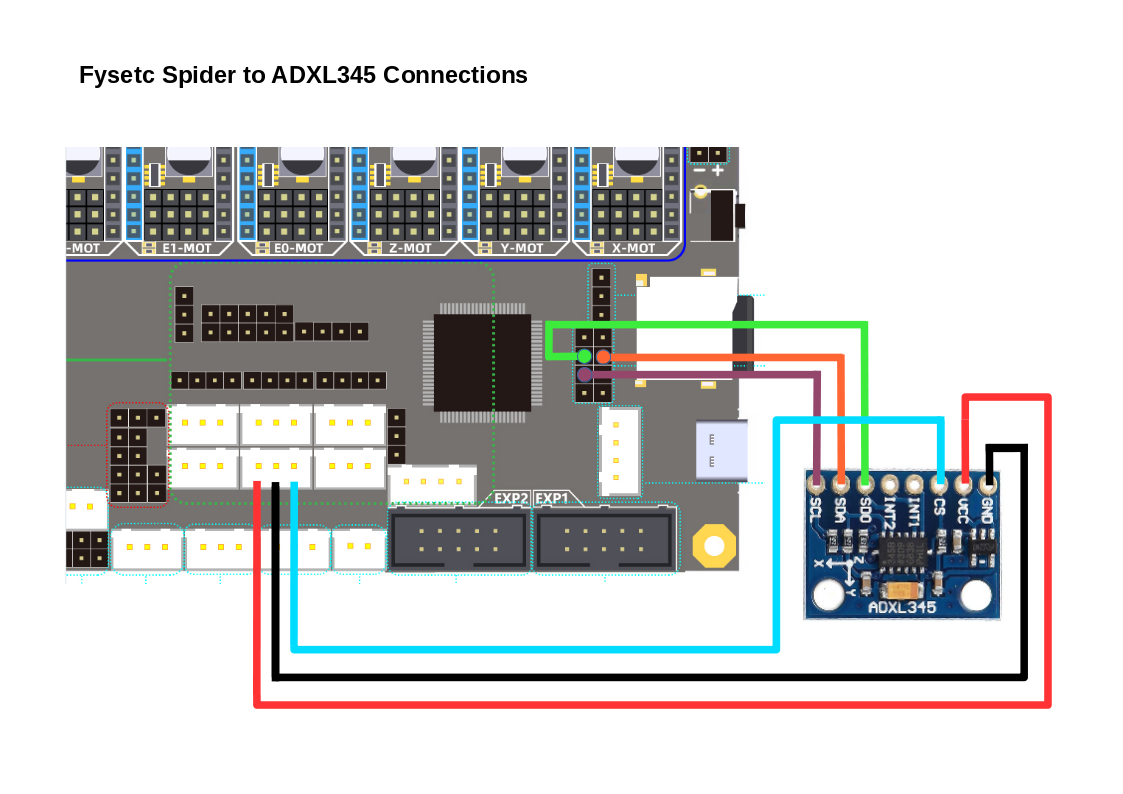
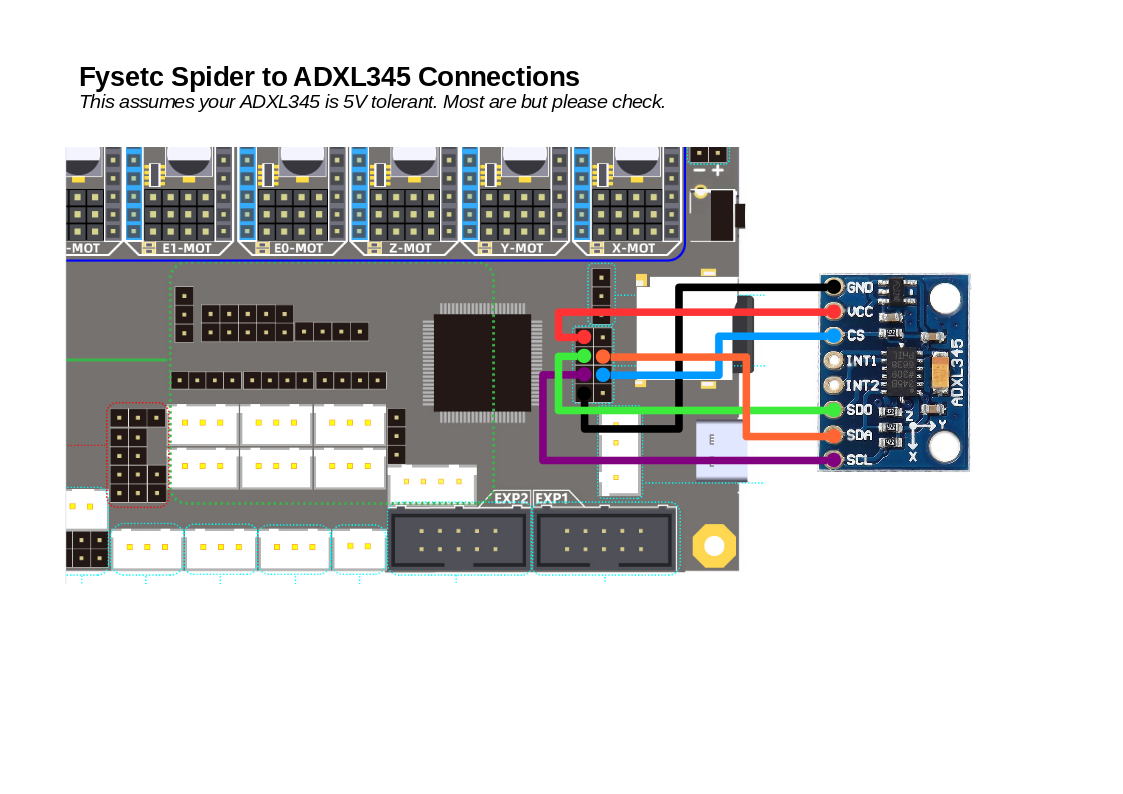
Rewrite for ADXL and display changes.

Changed region(s): [[0.2182, 0.3325, 0.935, 0.9068], [0.0623, 0.0605, 0.5922, 0.1511]]

diff --git a/docs/boards/fysetc/spider-11.md b/docs/boards/fysetc/spider-11.md
@@ -7,6 +7,10 @@
 
 !> If you use the Ratrig endstop switches and cables, do **not** blindly plug them in to your Spider as doing this will short the board's 3.3V supply rail.  You will probably have to swap the outer two wires (red and white) on the board end of the cable but double check this.
 
+!> Before connecting a low voltage probe (like a BL Touch) **check** the probe voltage selector jumper.
+
+![Fysetc Spider V1.1 Probe Voltage Selector](_media/Probe_Voltage.png)
+
 ### Connection to your Pi
 
 While the Spider can connect to your Pi via it's UART, a better way of
@@ -19,20 +23,43 @@ the Pi running.
 ## Firmware installation
 
 For the first time install of Klipper onto the Spider; there are two
-methods.  Via SSH(PuTTY)/USB or with an SD Card.  Once klipper is
-installed, future updates can be installed over a Pi/Spider USB connection from V-CoreOS using the
-~/klipper_config/config/boards/fysetc-spider/make-and-flash-mcu.sh
-command and you don't need to fiddle around with jumpers or SDCards.
+methods.  With an SD Card or via SSH(PuTTY)/USB.  
+
+For a first time install, the SD Card method is suggested as being the
+easiest.
+
+### via SD Card
+
+Copy the 'firmware-fysetc-spider.bin' file found on the
+https://github.com/Rat-Rig/V-CoreOS/releases page to a FAT 32 SD Card.
+
+Power off your Spider.  Insert the SD Card created above and power the
+Spider back on.  The upload should take a few seconds and a LED by the
+SDCard slot should flash while this is happening.
+
+When complete power off your Spider and remove the SD Card (press to
+release as it's a latching style SD Card socket).
+
+For more information; this is documented on the Fysetc pages:
+https://github.com/FYSETC/FYSETC-SPIDER#42-Klipper
+
+!> If you have an ADXL345 connected to your Spider as shown below, this
+*must* be disconnected from your Spider to avoid conflicts with the SD
+Card while loading the firmware.
 
 ### via SSH(PuTTY)/USB
 
-Make sure your board is connected to the Pi (USB-C on the Spider, USB-A on the Pi). Connect with SSH (PuTTy for Windows users) to the Pi (login pi, password raspberry if you did not change the defaults).
+While the SD Card method described above is the easiest, users that are
+comfortable with SSH/PuTTY may prefer this more advanced method.
 
 Fysetc provide instructions on installing Klipper here:
-https://github.com/FYSETC/FYSETC-SPIDER#42-Klipper but some
-parts of that are less clear than one might wish so here is the sequence
-that worked for the author.
+https://github.com/FYSETC/FYSETC-SPIDER#42-Klipper but some parts of
+that are less clear than one might wish so here is the sequence that
+worked for the author.
 
+Make sure your board is connected to the Pi (USB-C on the Spider, USB-A
+on the Pi).  Connect with SSH (PuTTy for Windows users) to the Pi (login
+pi, password raspberry if you did not change the defaults).
 
 ![Fysetc Spider V1.1 BT0 Jumper](_media/BTO-jumper.png)
 
@@ -42,12 +69,16 @@ Press the reset button on the Spider.
 
 On the Pi, run the following command:
 
-	lsusb
+	dfu-util --list
 
-You should see a device in DFU mode listed. This is your Spider ready to have the firmware
-uploaded.
+You should see a list of DFU devices.  This is your Spider ready to have
+the firmware uploaded.
 
-Building the firmware is covered here: https://rat-rig.github.io/V-CoreOS/#/manual-firmware-compilation
+Build the firmware which is covered here: https://rat-rig.github.io/V-CoreOS/#/manual-firmware-compilation
+
+The Klipper config settings for the Spider v1.1 are shown below:
+
+![Fysetc Spider Klipper Config](_media/Klipper_config.png)
 
 Once the firmware is built on the Pi run:
 
@@ -58,57 +89,39 @@ You should see the firmware being written to your Spider.
 
 Now remove the jumper between 3.3V and BT0 on the Spider.  Press the reset button on the Spider.
 
-Run "lsusb" again and you should see a device by the name "OpenMoko, Inc.". This is your Spider running Klipper.
+Run "lsusb" on the Pi and you should see a device by the name "OpenMoko, Inc.". This is your Spider running Klipper.
 
 run the command "sudo service klipper start". V-CoreOS should now be able to communicate with your Spider.
 
+### Klipper Updates
 
-### via SD Card
+Sometimes klipper makes changes to the microcontroller code and thus
+your Spider need to be reflashed with new firmware.  You can do that in 2
+ways.
 
-This is documented on the Fysetc pages: https://github.com/FYSETC/FYSETC-SPIDER#42-Klipper
-
-Build the firmare as documented here: https://rat-rig.github.io/V-CoreOS/#/manual-firmware-compilation
-
-Copy the klipper.bin file (~/klipper/out/klipper.bin) to a file named firmware.bin on an SD Card.
-
-Power off your Spider.  Insert the SD Card created above and power the
-Spider back on.  The upload should take around 30 seconds and a LED by
-the SDCard slot should flash while this is happening.
+The updates can be installed with an SD Card (same method as
+the first install described above) or over a Pi/Spider USB connection from V-CoreOS
+using SSH(PuTTY) and the provided
+~/klipper_config/config/boards/fysetc-spider/make-and-flash-mcu.sh
+command so you don't need to fiddle around with SD Cards.
 
 ## Setup
 
 If you're going through initial setup please continue in the [installation guide](installation.md#setup)
 
-## Firmware upgrade
-
-Sometimes klipper makes changes to the microcontroller code and thus your MCU need to be reflashed with new firmware. You can do that in 2 ways.
-
-### SD Card
-
-If you're not used to the command line or haven't used SSH before, the easiest way is to download the new firmware file from the github release page and follow the procedure above for loading the firmware via SD Card. New firmware files will uploaded to the latest release when the klipper firmware changes, this is a manual process though and might not be immediately available. Therefore the recommended method is [flashing via usb](#flashing-via-usb)
-
-### Flashing via USB (Recommended)
-
-The easiest option is to SSH into the pi using something like PuTTy or `ssh pi@v-coreos.local` via the commandline on OS X and Linux machines. Execute `~/klipper_config/config/boards/fysetc-spider/make-and-flash-mcu.sh` and the Pi will compile the klipper firmware and flash the board for you. This has the benefit that it will always recompile the firmware to match your klipper version, so you are not reliant upon the V-CoreOS developers to upload a new firmware binary for you.
-
-!> Be sure to remove the SD card from the board before attempting to flash, if one is in there.
-
-## ADXL Connection
+## ADXL345 Connection
 
 In your printer.cfg add the following:
 
-	#   For ADXL
+	#   For ADXL345
 	[resonance_tester]
 	accel_chip: adxl345
 	# Change the following to the centre of your bed.
 	probe_points: 200,200,20
 
-	[adxl345]
-	cs_pin: PA2
+Connect the ADXL345 to the Spider like so:
 
-Connect the ADXL to the Spider like so:
-
-	Spider         ADXL
+	Spider         ADXL345
 	3V3            VCC
 	GND            GND
 	MISO           SDO
@@ -118,19 +131,9 @@ Connect the ADXL to the Spider like so:
 
 ![Fysetc Spider V1.1 ADXL Wiring](_media/SpiderADXL-Wiring.png)
 
-The MISO, MOSI and SCK pins are found on the eight pin block to the left
-of the SD Card holder.
-
-PA2 is the right hand pin on the three pin Y+ socket or the right hand pin on the E1 DIAG header.  
-
-GND can be found on the middle pin of the Y+ socket.
-
-3V3 can be picked up from the Y+ socket (left hand pin) but check it's
-configured for 3.3 Volts and not 5 (set by solder bridge on the back of
-the board).  Alternatively, 3.3 Volts is available on the Z- endstop
-socket on next to the BT0 pin.
-
 See the Fysetc wiring plan for details: https://github.com/FYSETC/FYSETC-SPIDER/blob/main/images/Spider_V1.0_Pinout.jpg
+
+!> Disconnect the ADSL345 from your Spider if you are uploading firmware using the SD Card.
 
 ## Mini 12864 Display Connection
 
@@ -145,13 +148,15 @@ In your printer.cfg add the following:
 	[display]
 	lcd_type: uc1701
 	cs_pin: EXP1_3
+	spi_software_mosi_pin: PA7
+	spi_software_miso_pin: PA6
+	spi_software_sclk_pin: PA5
 	a0_pin: EXP1_4
 	rst_pin: EXP1_5
-	contrast: 63
 	encoder_pins: ^EXP2_5, ^EXP2_3
 	click_pin: ^!EXP1_2
+	contrast: 63
 	menu_reverse_navigation: true
-	spi_bus: spi1
 	#
 	[output_pin beeper]
 	pin: EXP1_1
@@ -187,6 +192,7 @@ Then disconnect the USB cable, reconnect it and /dev/fysetc-spider should exist.
 
 If you are using the Fysetc TMC2209 step-sticks and performance mode; turn off stealthchop for the X & Y motors to avoid random Undervoltage errors.
 
+
 Add this to the "### USER OVERRIDES" section of printer.cfg:
 
 	[tmc2209 stepper_x]
@@ -195,6 +201,18 @@ Add this to the "### USER OVERRIDES" section of printer.cfg:
 	[tmc2209 stepper_y]
 	stealthchop_threshold: 0
 
+You may also see this happen for the Z motors although it's less likely. If so, just turn on stealthchop for them like so:
 
-	
+	[tmc2209 stepper_z]
+	stealthchop_threshold: 999999
+
+	[tmc2209 stepper_z1]
+	stealthchop_threshold: 999999
+
+	[tmc2209 stepper_z2]
+	stealthchop_threshold: 999999
+
+
+Klipper recommends using either stealthchop or spreadcycle for TMC drivers: https://www.klipper3d.org/TMC_Drivers.html
+
 
